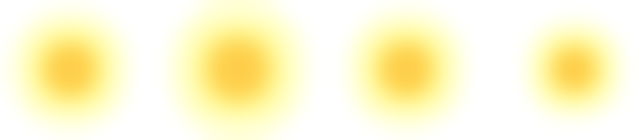
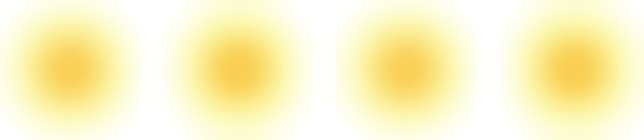
new loading screen, don't load up levels until you press new game in menu

Changed region(s): [[0.7764, 0.0, 1.0, 1.0], [0.4969, 0.4857, 0.528, 0.5143]]

diff --git a/src/engine.cpp b/src/engine.cpp
@@ -9,6 +9,7 @@
 #include "title_state.h"
 #include "intro_state.h"
 #include "credit_state.h"
+#include "loading_state.h"
 #include "playing_state.h"
 #include "level_1_state.h"
 #include "level_2_state.h"
@@ -16,7 +17,6 @@
 #include "level_4_state.h"
 #include "highscore_state.h"
 #include "instruction_state.h"
-#include "loading_state.h"
 
 // Starts the game
 int Engine::volume = 100;
@@ -146,23 +146,20 @@ void Engine::setState(std::string state) {
 }
 
 void Engine::createStates() {
-  states["loading"] = new LoadingState(this, &error_handler);
   states["win"] = new WinState(this, &error_handler);
   states["lose"] = new LoseState(this, &error_handler);
   states["menu"] = new MenuState(this, &error_handler);
   states["title"] = new TitleState(this, &error_handler);
   states["credits"] = new CreditState(this, &error_handler);
   states["intro"] = nullptr;
+  states["loading"] = nullptr;
   states["playing"] = nullptr;
   states["level_2"] = nullptr;
   states["level_3"] = nullptr;
   states["level_4"] = nullptr;
-  states["instruction"] = nullptr;
-  newGame();
   states["Highscore"] = nullptr;
-  newHighscore();
+  states["instruction"] = nullptr;
 }
-
 
 Engine::Engine() : 
   error_handler(this) {
@@ -177,7 +174,13 @@ void Engine::quit() {
 void Engine::newGame() {
   double interpol_alpha = accumulator/DELTA_TIME;
 
-  static_cast<LoadingState*>(states["loading"])->loadingStart();
+  if (states["loading"] != nullptr) {
+    delete states["loading"];
+    states["loading"] = nullptr;
+  }
+  states["loading"] = new LoadingState(this, &error_handler);
+
+  setState("loading");
   states["loading"]->render(interpol_alpha);
 
   if (states["playing"] != nullptr) {
@@ -213,66 +216,50 @@ void Engine::newGame() {
     states["instruction"] = nullptr;
   }
   score = 0;
+  // win
   states["win"] = new WinState(this, &error_handler);
-  static_cast<LoadingState*>(states["loading"])->changeColor(255, 189, 27);
-  states["loading"]->render(interpol_alpha);
-
+  // lose
   states["lose"] = new LoseState(this, &error_handler);
-  static_cast<LoadingState*>(states["loading"])->changeColor(255, 0, 0);
-  states["loading"]->render(interpol_alpha);
-
+  // intro
   states["intro"] = new IntroState(this, &error_handler);
-  static_cast<LoadingState*>(states["loading"])->changeColor(0, 255, 0);
+  static_cast<LoadingState*>(states["loading"])->advance();
   states["loading"]->render(interpol_alpha);
-
+  // level_1
   states["playing"] = new Level_1_State(this, &error_handler);
-  static_cast<LoadingState*>(states["loading"])->changeColor(0, 0, 255);
+  static_cast<LoadingState*>(states["loading"])->advance();
   states["loading"]->render(interpol_alpha);
-
+  // level_2
   states["level_2"] = new Level_2_State(this, &error_handler);
-  static_cast<LoadingState*>(states["loading"])->changeColor(0, 0, 0);
+  static_cast<LoadingState*>(states["loading"])->advance();
   states["loading"]->render(interpol_alpha);
-
+  // level_3
   states["level_3"] = new Level_3_State(this, &error_handler);
-  static_cast<LoadingState*>(states["loading"])->changeColor(255, 255, 255);
+  static_cast<LoadingState*>(states["loading"])->advance();
   states["loading"]->render(interpol_alpha);
-
+  // level_4
   states["level_4"] = new Level_4_State(this, &error_handler);
-  static_cast<LoadingState*>(states["loading"])->changeColor(128, 0, 128);
+  static_cast<LoadingState*>(states["loading"])->advance();
   states["loading"]->render(interpol_alpha);
-
+  // instruction
   states["instruction"] = new InstructionState(this, &error_handler);
-  static_cast<LoadingState*>(states["loading"])->changeColor(255, 189, 27);
+  static_cast<LoadingState*>(states["loading"])->advance();
   states["loading"]->render(interpol_alpha);
-
-
+  // reset character
   while(!Character::inventory.empty()){
     Character::inventory.pop_back();
   }
   while(!Character::activePowerups.empty()){
     Character::activePowerups.pop_back();
   }
-
-  Character::hearts = 6;
-  Character::level = 1;
   Character::exp = 0;
+  Character::level = 1;
+  Character::hearts = 6;
   Character::currFloor = 1;
-  PlayingState::instrGiven = 1;
   PlayingState::fallen = 0;
+  PlayingState::instrGiven = 1;
 
   lastTime = SDL_GetTicks();
-  static_cast<LoadingState*>(states["loading"])->loadingEnd();
-  states["loading"]->render(interpol_alpha);
 }
-
-/*void Engine::setNextLevel(std::string level, Image* &sentKing) {
-  if (states[level] != nullptr) {
-    delete states[level];
-    states[level] = nullptr;
-  }
-  states[level] = new Level_2_State(this, &error_handler, sentKing);
-  setState(level);
-}*/
 
 void Engine::newHighscore() {
   if (states["Highscore"] != nullptr) {

diff --git a/src/loading_state.cpp b/src/loading_state.cpp
@@ -8,36 +8,42 @@ LoadingState::LoadingState(Engine* engine, ErrorHandler* errorHandler)
 }
 
 void LoadingState::setup(){
-
   images["0BG"] = new Sprite(engine->renderer, BG_FILENAME, errorHandler,
     0, 0, false);
-  images["1Load"] = new Text(engine->renderer, FONT_FILENAME, errorHandler, 50,
-    50, 120, "L O A D I N G", ROYAL_GOLD);
+  images["1start"] = new Text(engine->renderer, FONT_FILENAME, errorHandler,
+    0, 0, 140, "STARTING  IN", ROYAL_GOLD);
+  for (int i = 0; i < countdown; i++) {
+    s = "2count_" + std::to_string(i);
+    images[s] = new Text(engine->renderer, FONT_FILENAME, errorHandler,
+    0, 0, 200, std::to_string(i), ROYAL_GOLD);
+  }
 }
+
 void LoadingState::load() {
   State::load();
-  auto center = getCenterForImage(images["1Load"]);
-  images["1Load"]->setPosition(std::get<0>(center), std::get<1>(center));
+  for (it = images.find("1start"); it != images.end(); it++) {
+    if (it->first[0] == '2')
+    {
+      SDL_SetTextureAlphaMod(it->second->getTexture(), 0);
+    }
+    auto center = getCenterForImage(it->second);
+    it->second->setPosition(std::get<0>(center), std::get<1>(center));
+  }
 }
 
 void LoadingState::update(double seconds){
-  State::update(seconds);  
+  State::update(seconds);
+  eventHandler.addListener(SDL_KEYUP, [&] (SDL_Event*) {
+    engine->quit();}, SDLK_ESCAPE); 
 }
-void LoadingState::loadingStart(){
-  SDL_SetTextureAlphaMod(images["1Load"]->getTexture(), 255);
-  SDL_SetTextureAlphaMod(images["0BG"]->getTexture(), 255);
-}
-void LoadingState::loadingEnd(){
-  auto center = getCenterForImage(images["1Load"]);
-  images["1Load"]->setPosition(std::get<0>(center), std::get<1>(center));
-  SDL_SetTextureAlphaMod(images["1Load"]->getTexture(), 255);
-  SDL_SetTextureColorMod(images["1Load"]->getTexture(), 255, 189, 27);
-}
-void LoadingState::loadingMove(double x, double y){
-  images["1Load"]->setPosition(images["1Load"]->pos_x + x, images["1Load"]->pos_y + y);
-}
-void LoadingState::changeColor(int r, int g, int b){
-  SDL_SetTextureColorMod(images["1Load"]->getTexture(), r, g, b);
 
+void LoadingState::advance(){
+  s = "2count_" + std::to_string(countdown);
+  if (countdown < 6) SDL_SetTextureAlphaMod(images[s]->getTexture(), 0);
+  else SDL_SetTextureAlphaMod(images["1start"]->getTexture(), 0);
+  countdown--;
+  s = "2count_" + std::to_string(countdown);
+  SDL_SetTextureAlphaMod(images[s]->getTexture(), 255);
 }
+
 LoadingState::~LoadingState(){}

diff --git a/include/loading_state.h b/include/loading_state.h
@@ -9,20 +9,15 @@ class LoadingState : public State {
       LoadingState(Engine* engine, ErrorHandler* errorHandler);
 
       virtual ~LoadingState();
-
       virtual void load();
+      void advance(); 
 
-      void loadingStart();
-  
-      void loadingEnd();
-
-      void loadingMove(double x, double y);
- 
-      void changeColor(int r, int g, int b);
     private:
       virtual void setup();
-
       void update(double);
+
+      std::string s;
+      int countdown = 6;
 };
 
 #endif

diff --git a/src/map.cpp b/src/map.cpp
@@ -270,7 +270,7 @@ void Map::update(double seconds) {
       tile.image->animate(seconds, tile.start_frame, tile.frame_length + tile.start_frame - 1, 9);
       continue;
     }
-    tile.image->animate(seconds, tile.start_frame, tile.frame_length + tile.start_frame - 1);
+    tile.image->animate(seconds, tile.start_frame, tile.frame_length + tile.start_frame - 1, 5.0);
   }
 }
 
